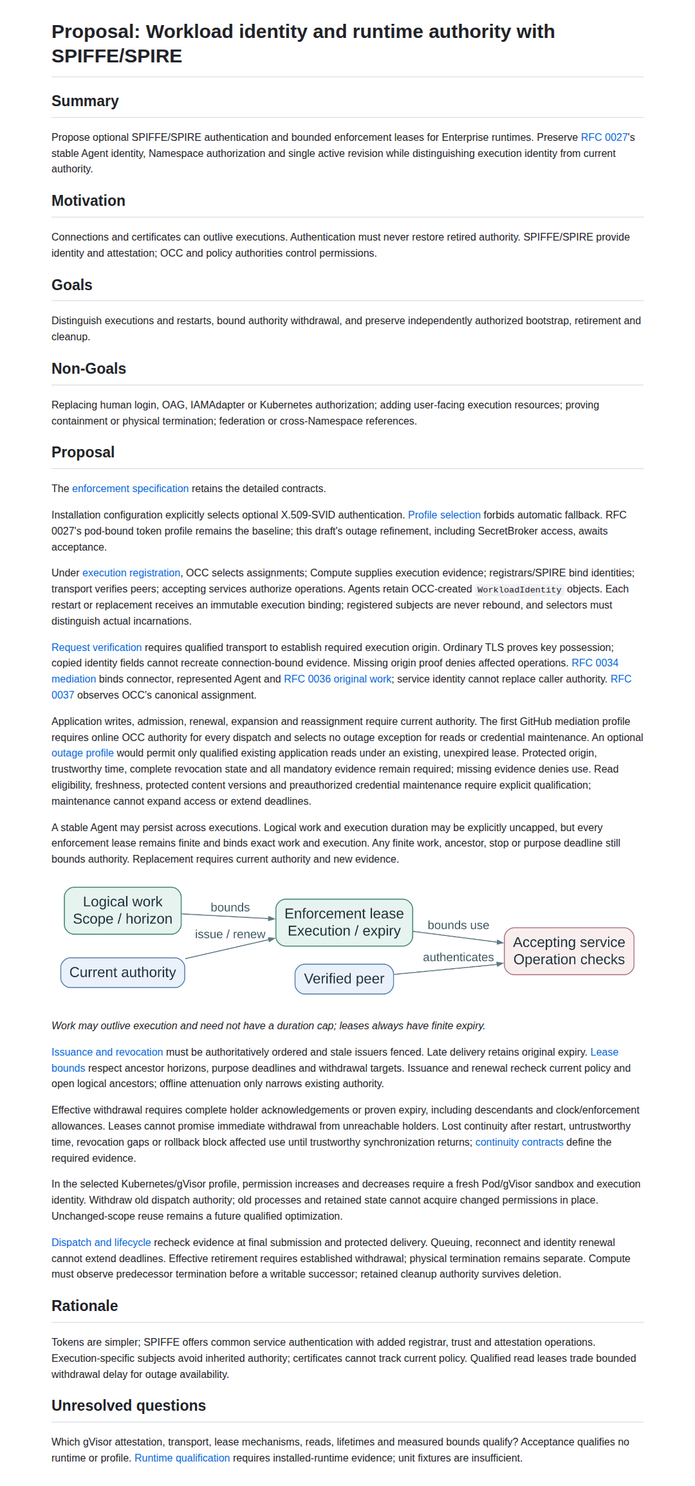
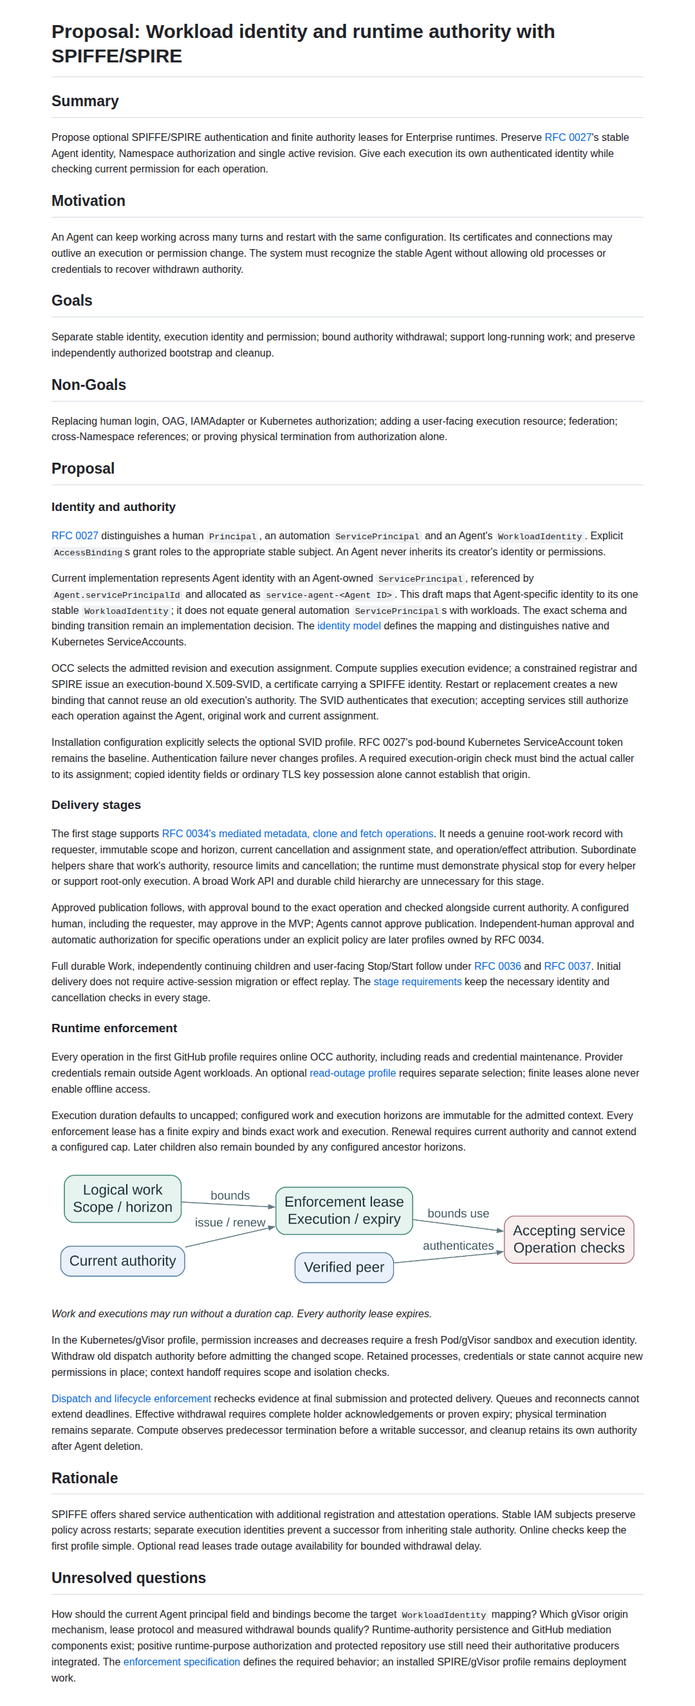
docs: clarify Agent identity and staged authority requirements

Changed region(s): [[0.0611, 0.0, 0.9167, 0.9974]]

diff --git a/rfcs/0035/enforcement-spec.md b/rfcs/0035/enforcement-spec.md
@@ -7,23 +7,47 @@ authorization, stable Agent identity, Namespace authorization and the single
 active revision. SPIFFE supplies identity documents; SPIRE supplies registration
 and attestation. Neither selects active revisions or grants OpenClaw permissions.
 
-## Authentication profiles
+## Identity model
 
-Each Agent retains its OCC-created `WorkloadIdentity`. An internal assignment
-binds it to an admitted revision and execution, without introducing a user-facing
-resource between AgentRevision and its workload. The Agent resource may persist
-indefinitely; its stable identity is distinct from an execution assignment, its
-SVID and each finite authority lease. Gateways, registrars and cleanup
-services use their own narrowly authorized identities; they cannot assume Agent
-identity.
+The target IAM subjects remain those of RFC 0027:
+
+| Identity or account | Meaning and authority |
+| --- | --- |
+| Human `Principal` | Existing OCC identity resolved from verified external identity; may approve publication when configured. |
+| Automation `ServicePrincipal` | Explicit Installation- or Namespace-scoped automation subject with its own bindings. |
+| Agent `WorkloadIdentity` | One stable OCC-created IAM subject per Agent, shared across revisions; bindings are confined to its Namespace or exact resources there. |
+| Execution assignment and SVID | One admitted incarnation of that Agent; the SVID authenticates its registered execution subject and grants no permission. |
+| Kubernetes `ServiceAccount` | Infrastructure identity backing the workload; its pod-bound token is the baseline runtime authentication credential. |
+| Native OCE `ServiceAccount` | Provider-agnostic account resource with an opaque credential reference; it is neither an IAM subject nor a Kubernetes ServiceAccount. |
+
+Current implementation persists the Agent's identity as an Agent-owned,
+Namespace-scoped `ServicePrincipal`. `Agent.servicePrincipalId`, allocated as
+`service-agent-<Agent ID>` and copied into revisions, references that record.
+This is the current representation of the design's stable `WorkloadIdentity`;
+it is not a separately implemented identity type. The proposed mapping preserves
+one stable workload subject per Agent without reclassifying general automation
+`ServicePrincipal`s. Whether implementation retains the field or introduces a
+distinct contract/persistence kind remains unresolved.
+
+Before selecting this profile, OCC must unambiguously resolve the Agent, stable
+subject, applicable bindings and current assignment within one Namespace.
+Any binding transition preserves exact subject and scope without adding
+permissions or transferring human/automation bindings. An execution SVID
+resolves through the assignment to that stable role-bearing subject.
+
+An assignment is internal, without a user-facing execution resource. Gateways,
+registrars and cleanup services use their own narrowly authorized identities;
+they cannot assume Agent identity. Agents cannot inherit human sessions, roles
+or provider credentials.
+
+## Authentication profiles
 
 Installation configuration selects authentication; workloads cannot choose trust
 roots. RFC 0027's pod-bound
 ServiceAccount-token profile remains the baseline. RFC 0035 proposes an optional
 X.509-SVID profile at explicitly selected OCC runtime boundaries. An X.509-SVID is
-a certificate carrying a SPIFFE identity. The dedicated Kubernetes ServiceAccount
-retains infrastructure authorization; IAM bindings remain attached to stable OCC
-identities. No human permissions transfer.
+a certificate carrying a SPIFFE identity. Kubernetes retains infrastructure
+authorization; IAM bindings remain attached to stable OCC subjects.
 
 Verification failure cannot switch profiles or admit another credential type.
 Migration requires an explicit rollout, current assignment bindings and withdrawal
@@ -34,6 +58,34 @@ This proposal does not replace human login, OAG admission, IAMAdapter policy or
 Kubernetes authorization. Cross-Installation federation and cross-Namespace
 references remain outside its scope. Identity does not establish containment,
 prevent all credential theft or prove physical termination from authorization.
+
+## Stage requirements
+
+Delivery starts with RFC 0034's mediated metadata, clone and fetch operations,
+then adds approved publication. Both stages require:
+
+- A genuine root-work record identifying the verified requester, service owner
+  and represented Agent, immutable admitted scope and finite-or-uncapped horizon,
+  cancellation state and exact current execution assignment.
+- Protected caller origin and online OCC authorization for each operation,
+  with operation/effect attribution and provider credentials outside workloads.
+- Subordinate helpers sharing the root work's execution context, authority,
+  aggregate resource limits, cancellation and expiry, without independent
+  admission or renewal. The runtime must demonstrate physical stop for every
+  helper; otherwise only root execution is supported.
+
+No broad Work API or child hierarchy is required. Unsupported independent
+children are denied; root-only work needs no child lineage. Cancellation blocks
+new dispatch; uncertain provider outcomes are recorded without blind replay.
+
+Publication additionally requires approval for the exact operation under RFC
+0034. The MVP permits a configured human, including the requester, to approve;
+Agents cannot approve publication. Independent-human approval and automatic
+authorization for specific operations under an explicit policy follow later.
+
+Full durable Work and independent children follow under RFC 0036, with the
+ancestry rules below; user-facing Stop/Start follows under RFC 0037.
+Active-session migration and effect replay are outside initial delivery.
 
 ## Execution registration
 
@@ -49,48 +101,41 @@ Assignments record Installation, Namespace, participant kind, stable identity,
 applicable revision, opaque assignment ID, execution generation, qualified
 compartment and registration reference. Restart or replacement creates a fresh
 execution binding even with unchanged Agent, ServiceAccount or Pod UID.
-Compartment selection must satisfy
-[RFC 0036's shared-state or isolation requirements](https://github.com/openclaw/rfcs/pull/70);
-identity labels cannot prove that isolation.
+Compartment selection must enforce the admitted scope's shared-state or
+isolation requirements. [RFC 0036](https://github.com/openclaw/rfcs/pull/70)
+extends these to independent children; identity labels cannot prove isolation.
 
-In the selected Kubernetes/gVisor profile, a permission increase or decrease
-requires a fresh Pod/gVisor sandbox, assignment and execution-bound SVID. Another
-container sharing the old Pod is insufficient. Withdraw old dispatch authority
-before admitting dispatch under the changed scope; do not change permissions in
-place while retaining old processes, memory, credentials or reusable state.
-Approved workspace or context handoff requires explicit scope and isolation
-checks; it cannot carry old authority or disallowed higher-authority data into
-the successor.
+Permission increases and decreases require a fresh Pod/gVisor sandbox,
+assignment and execution-bound SVID; another container in the old Pod is
+insufficient. Withdraw old dispatch authority before admitting the changed
+scope. Retained processes, memory, credentials and state cannot gain changed
+permissions in place. Workspace/context handoff requires scope and isolation
+checks and excludes old authority and disallowed higher-authority data.
 
-An Agent may handle multiple messages and turns under one unchanged authorized
-context; a message alone does not require a new Pod. Reusing a context across
-assignments remains a future optimization requiring proof of unchanged effective
-authority and data scope, currentness, work attribution and retained-state
-isolation. Comparing one permission label cannot qualify reuse.
+Multiple messages and turns may share one unchanged authorized context.
+Cross-assignment reuse remains a future optimization requiring unchanged
+effective authority and data scope, currentness, attribution and retained-state
+isolation; comparing permission labels is insufficient.
 
-The registered SPIFFE ID identifies one execution binding and must never be
-rebound to a successor. Attested selectors must distinguish that execution from
-other workloads and earlier incarnations. A fresh registration name with
-unchanged, insufficient selectors cannot do so. Renewal preserves the same
-binding. If an old certificate remains valid after replacement, it still resolves
-only to the old, retired assignment.
+Registered SPIFFE IDs never rebind to successors. Attested selectors must
+distinguish actual executions, including restarts; new names with insufficient
+selectors cannot do so. Renewal preserves the binding. Old certificates resolve
+only to their old assignments, even when still valid after replacement.
 
-[RFC 0037's observations](https://github.com/openclaw/rfcs/pull/71) reference OCC's
-canonical assignment; they cannot select another current execution. Lifecycle
-intent has a separate generation: stop need not change execution generation;
-replacement does.
+[RFC 0037](https://github.com/openclaw/rfcs/pull/71) observes OCC's canonical
+assignment. Lifecycle intent has a separate generation: stop need not change
+execution generation; replacement does.
 
 Record registration intent before dispatch. The registrar uses its own authority
 and protected Compute evidence, never the target's credential. Workloads cannot
 choose subjects, parents or selectors. A timed-out create requires exact
 reconciliation, not an unrelated registration.
 
-Pre-activation registration grants no Harness execution, Channel traffic or
-SecretBroker access. Independently authorized readiness paths preserve RFC 0027's
-activation order. Logical work and execution assignment are separate: work may
-survive a process, but selecting a replacement requires current authority and new
-execution-bound evidence. Neither recovered work nor its old lease authorizes the
-replacement.
+Pre-activation registration grants no Harness, Channel or SecretBroker access.
+Independently authorized readiness preserves RFC 0027's activation order.
+Where work continuation is later supported, replacement still requires current
+authority and fresh execution evidence; recovered work or an old lease cannot
+authorize it.
 
 ## Request verification
 
@@ -100,9 +145,9 @@ For each protected request:
 2. Resolve trusted registration and protected execution evidence to the exact
    assignment. Caller headers or serialized identity objects are insufficient.
 3. Check permitted purpose: serving, bounded drain of admitted work, permitted
-   control, or retained cleanup. Drain uses the original work ceiling and RFC
-   0037's finite deadline; it admits no new work. Purpose checks use current
-   authority or a qualified enforcement lease as specified below.
+   control, or retained cleanup. Drain uses the original work ceiling and a
+   finite deadline; it admits no new work. RFC 0037 defines the later Stop/Start
+   flow. Purpose checks use current authority or a qualified enforcement lease.
 4. Apply existing IAM, Restrictions, logical-work and effect constraints. The
    service owner, verified requester and executing workload remain distinct under
    RFC 0036. Authentication grants no permission.
@@ -124,40 +169,33 @@ here. Connector and gateway identities cannot replace caller authority.
 
 ## Outage operation
 
-The first GitHub mediation profile requires online OCC authority for every
-protected dispatch. It selects no outage exception for reads or credential maintenance.
-The exception below is an optional profile proposal, requiring separate explicit
-selection and qualification; finite leases alone do not enable it. Provider tokens
-may be cached only while every use passes the selected current-authority checks.
+The first GitHub profile requires online OCC authority for every operation,
+including reads and credential maintenance. Cached provider tokens do not bypass
+these checks. The following optional exception needs separate selection and
+qualification; finite leases alone do not enable it.
 
-Long-lived connections and streams recheck purpose before privileged dispatch or
-protected delivery. Application writes, message posting, new admission, renewal,
-expansion and new execution assignment require current authority. Only explicitly
-qualified application reads may continue during an authority outage under an
-existing unexpired enforcement lease. Eligibility follows operation semantics,
-not the HTTP method.
+Writes, message posting, admission, renewal, expansion and reassignment require
+current authority. Only qualified application reads may continue during an
+authority outage under an existing unexpired lease. Eligibility follows operation
+semantics, not HTTP methods.
 
-Protected origin, local revocation state, trustworthy time and every other
-mandatory check still apply; missing evidence denies the affected operation. OCC
-and each resource's selected IAM authority still own permission decisions; a
-connector cannot invent an outage profile. Read freshness and protected content
-versions require explicit qualification. A lease for a resource does not by
-itself authorize newly protected content at that resource.
+Protected origin, complete local revocation state, trustworthy time and all
+mandatory evidence remain required. OCC and the selected IAM authority retain
+permission decisions. Read freshness and protected content versions need explicit
+qualification; a resource lease does not authorize newly protected content.
 
-This is a proposed refinement of RFC 0027's per-operation current-authority and
-unavailable-state denial rules, including SecretBroker access. The accepted
-baseline is unchanged until this refinement is accepted.
+This refines RFC 0027's current-authority and unavailable-state denial rules,
+including SecretBroker access; its baseline stands until the refinement is accepted.
 
-Trusted credential maintenance may preserve existing read access only when
-expressly preauthorized under that same lease and qualified by RFC 0034. It cannot
-create work, expand access or extend an authority deadline. This does not permit
-application writes during an outage. Write interruption and restricted read
-freshness are deliberate initial limitations; broader outage profiles require a
+Credential maintenance may preserve read access only when preauthorized under
+the same lease and qualified by RFC 0034. It cannot create work, expand access,
+extend deadlines or permit application writes. Broader outage profiles require a
 separate proposal.
 
 ## Lease issuance and ordering
 
-OCC and the selected policy authorities issue leases for RFC 0036's admitted work.
+OCC and the selected policy authorities issue leases for admitted original work,
+using the root record in the initial stages and RFC 0036's hierarchy later.
 Each lease records:
 
 - Issuer and committed issuance version.
@@ -183,9 +221,12 @@ guarantees or remain unavailable for this profile.
 
 ## Lease bounds and ancestry
 
-Execution duration and logical-work horizons may be explicitly uncapped under
-the selected policy. An omitted or unknown policy is not evidence of uncapped
-authority. Each enforcement lease still has a finite absolute expiry.
+Execution duration defaults to uncapped under the selected initial policy.
+Admission records that choice or an explicitly configured finite horizon;
+missing or unverifiable policy state is not an uncapped choice. Logical work
+may also have a finite or uncapped horizon. The admitted work and execution
+horizons are immutable: renewal and reconnect cannot extend a configured cap.
+Each enforcement lease still has a finite absolute expiry.
 
 For issuance committed at `t`, expiry must satisfy:
 
@@ -248,9 +289,10 @@ fresh issuance.
 ## Dispatch and lifecycle
 
 Dispatch permits bind assignment/generation, original work and authority version,
-operation digest and evidence deadline. The accepting service rechecks mandatory
-evidence at final submission; reservation or queuing cannot postpone submission
-past the deadline. Offline allowance consumption requires a qualified
+operation digest and evidence deadline. Connections and streams recheck purpose
+before privileged dispatch or protected delivery. The accepting service rechecks
+mandatory evidence at final submission; reservation or queuing cannot postpone
+submission past the deadline. Offline allowance consumption requires qualified
 preallocation and durable accounting; exhaustion cannot authorize fresh credit.
 
 The effective dispatch deadline is no later than any applicable certificate,

diff --git a/rfcs/0035-workload-identity-and-runtime-authority.md b/rfcs/0035-workload-identity-and-runtime-authority.md
@@ -13,50 +13,58 @@ rfc_pr: https://github.com/openclaw/rfcs/pull/69
 
 ## Summary
 
-Propose optional SPIFFE/SPIRE authentication and bounded enforcement leases for Enterprise runtimes. Preserve [RFC 0027](0027-openclaw-enterprise.md#iam-and-authority)'s stable Agent identity, Namespace authorization and single active revision while distinguishing execution identity from current authority.
+Propose optional SPIFFE/SPIRE authentication and finite authority leases for Enterprise runtimes. Preserve [RFC 0027](0027-openclaw-enterprise.md#iam-and-authority)'s stable Agent identity, Namespace authorization and single active revision. Give each execution its own authenticated identity while checking current permission for each operation.
 
 ## Motivation
 
-Connections and certificates can outlive executions. Authentication must never restore retired authority. SPIFFE/SPIRE provide identity and attestation; OCC and policy authorities control permissions.
+An Agent can keep working across many turns and restart with the same configuration. Its certificates and connections may outlive an execution or permission change. The system must recognize the stable Agent without allowing old processes or credentials to recover withdrawn authority.
 
 ## Goals
 
-Distinguish executions and restarts, bound authority withdrawal, and preserve independently authorized bootstrap, retirement and cleanup.
+Separate stable identity, execution identity and permission; bound authority withdrawal; support long-running work; and preserve independently authorized bootstrap and cleanup.
 
 ## Non-Goals
 
-Replacing human login, OAG, IAMAdapter or Kubernetes authorization; adding user-facing execution resources; proving containment or physical termination; federation or cross-Namespace references.
+Replacing human login, OAG, IAMAdapter or Kubernetes authorization; adding a user-facing execution resource; federation; cross-Namespace references; or proving physical termination from authorization alone.
 
 ## Proposal
 
-The [enforcement specification](0035/enforcement-spec.md) retains the detailed contracts.
+### Identity and authority
 
-Installation configuration explicitly selects optional X.509-SVID authentication. [Profile selection](0035/enforcement-spec.md#authentication-profiles) forbids automatic fallback. RFC 0027's pod-bound token profile remains the baseline; this draft's outage refinement, including SecretBroker access, awaits acceptance.
+[RFC 0027](0027-openclaw-enterprise.md#iam-and-authority) distinguishes a human `Principal`, an automation `ServicePrincipal` and an Agent's `WorkloadIdentity`. Explicit `AccessBinding`s grant roles to the appropriate stable subject. An Agent never inherits its creator's identity or permissions.
 
-Under [execution registration](0035/enforcement-spec.md#execution-registration), OCC selects assignments; Compute supplies execution evidence; registrars/SPIRE bind identities; transport verifies peers; accepting services authorize operations. Agents retain OCC-created `WorkloadIdentity` objects. Each restart or replacement receives an immutable execution binding; registered subjects are never rebound, and selectors must distinguish actual incarnations.
+Current implementation represents Agent identity with an Agent-owned `ServicePrincipal`, referenced by `Agent.servicePrincipalId` and allocated as `service-agent-<Agent ID>`. This draft maps that Agent-specific identity to its one stable `WorkloadIdentity`; it does not equate general automation `ServicePrincipal`s with workloads. The exact schema and binding transition remain an implementation decision. The [identity model](0035/enforcement-spec.md#identity-model) defines the mapping and distinguishes native and Kubernetes ServiceAccounts.
 
-[Request verification](0035/enforcement-spec.md#request-verification) requires qualified transport to establish required execution origin. Ordinary TLS proves key possession; copied identity fields cannot recreate connection-bound evidence. Missing origin proof denies affected operations. [RFC 0034 mediation](https://github.com/openclaw/rfcs/pull/68) binds connector, represented Agent and [RFC 0036 original work](https://github.com/openclaw/rfcs/pull/70); service identity cannot replace caller authority. [RFC 0037](https://github.com/openclaw/rfcs/pull/71) observes OCC's canonical assignment.
+OCC selects the admitted revision and execution assignment. Compute supplies execution evidence; a constrained registrar and SPIRE issue an execution-bound X.509-SVID, a certificate carrying a SPIFFE identity. Restart or replacement creates a new binding that cannot reuse an old execution's authority. The SVID authenticates that execution; accepting services still authorize each operation against the Agent, original work and current assignment.
 
-Application writes, admission, renewal, expansion and reassignment require current authority. The first GitHub mediation profile requires online OCC authority for every dispatch and selects no outage exception for reads or credential maintenance. An optional [outage profile](0035/enforcement-spec.md#outage-operation) would permit only qualified existing application reads under an existing, unexpired lease. Protected origin, trustworthy time, complete revocation state and all mandatory evidence remain required; missing evidence denies use. Read eligibility, freshness, protected content versions and preauthorized credential maintenance require explicit qualification; maintenance cannot expand access or extend deadlines.
+Installation configuration explicitly selects the optional SVID profile. RFC 0027's pod-bound Kubernetes ServiceAccount token remains the baseline. Authentication failure never changes profiles. A required execution-origin check must bind the actual caller to its assignment; copied identity fields or ordinary TLS key possession alone cannot establish that origin.
 
-A stable Agent may persist across executions. Logical work and execution duration may be explicitly uncapped, but every enforcement lease remains finite and binds exact work and execution. Any finite work, ancestor, stop or purpose deadline still bounds authority. Replacement requires current authority and new evidence.
+### Delivery stages
+
+The first stage supports [RFC 0034's mediated metadata, clone and fetch operations](https://github.com/openclaw/rfcs/pull/68). It needs a genuine root-work record with requester, immutable scope and horizon, current cancellation and assignment state, and operation/effect attribution. Subordinate helpers share that work's authority, resource limits and cancellation; the runtime must demonstrate physical stop for every helper or support root-only execution. A broad Work API and durable child hierarchy are unnecessary for this stage.
+
+Approved publication follows, with approval bound to the exact operation and checked alongside current authority. A configured human, including the requester, may approve in the MVP; Agents cannot approve publication. Independent-human approval and automatic authorization for specific operations under an explicit policy are later profiles owned by RFC 0034.
+
+Full durable Work, independently continuing children and user-facing Stop/Start follow under [RFC 0036](https://github.com/openclaw/rfcs/pull/70) and [RFC 0037](https://github.com/openclaw/rfcs/pull/71). Initial delivery does not require active-session migration or effect replay. The [stage requirements](0035/enforcement-spec.md#stage-requirements) keep the necessary identity and cancellation checks in every stage.
+
+### Runtime enforcement
+
+Every operation in the first GitHub profile requires online OCC authority, including reads and credential maintenance. Provider credentials remain outside Agent workloads. An optional [read-outage profile](0035/enforcement-spec.md#outage-operation) requires separate selection; finite leases alone never enable offline access.
+
+Execution duration defaults to uncapped; configured work and execution horizons are immutable for the admitted context. Every enforcement lease has a finite expiry and binds exact work and execution. Renewal requires current authority and cannot extend a configured cap. Later children also remain bounded by any configured ancestor horizons.
 
 ![Authority lifetimes](0035/authority-lifetimes.png)
 
-*Work may outlive execution and need not have a duration cap; leases always have finite expiry.*
+*Work and executions may run without a duration cap. Every authority lease expires.*
 
-[Issuance and revocation](0035/enforcement-spec.md#lease-issuance-and-ordering) must be authoritatively ordered and stale issuers fenced. Late delivery retains original expiry. [Lease bounds](0035/enforcement-spec.md#lease-bounds-and-ancestry) respect ancestor horizons, purpose deadlines and withdrawal targets. Issuance and renewal recheck current policy and open logical ancestors; offline attenuation only narrows existing authority.
+In the Kubernetes/gVisor profile, permission increases and decreases require a fresh Pod/gVisor sandbox and execution identity. Withdraw old dispatch authority before admitting the changed scope. Retained processes, credentials or state cannot acquire new permissions in place; context handoff requires scope and isolation checks.
 
-Effective withdrawal requires complete holder acknowledgements or proven expiry, including descendants and clock/enforcement allowances. Leases cannot promise immediate withdrawal from unreachable holders. Lost continuity after restart, untrustworthy time, revocation gaps or rollback block affected use until trustworthy synchronization returns; [continuity contracts](0035/enforcement-spec.md#revocation-and-continuity) define the required evidence.
-
-In the selected Kubernetes/gVisor profile, permission increases and decreases require a fresh Pod/gVisor sandbox and execution identity. Withdraw old dispatch authority; old processes and retained state cannot acquire changed permissions in place. Unchanged-scope reuse remains a future qualified optimization.
-
-[Dispatch and lifecycle](0035/enforcement-spec.md#dispatch-and-lifecycle) recheck evidence at final submission and protected delivery. Queuing, reconnect and identity renewal cannot extend deadlines. Effective retirement requires established withdrawal; physical termination remains separate. Compute must observe predecessor termination before a writable successor; retained cleanup authority survives deletion.
+[Dispatch and lifecycle enforcement](0035/enforcement-spec.md#dispatch-and-lifecycle) rechecks evidence at final submission and protected delivery. Queues and reconnects cannot extend deadlines. Effective withdrawal requires complete holder acknowledgements or proven expiry; physical termination remains separate. Compute observes predecessor termination before a writable successor, and cleanup retains its own authority after Agent deletion.
 
 ## Rationale
 
-Tokens are simpler; SPIFFE offers common service authentication with added registrar, trust and attestation operations. Execution-specific subjects avoid inherited authority; certificates cannot track current policy. Qualified read leases trade bounded withdrawal delay for outage availability.
+SPIFFE offers shared service authentication with additional registration and attestation operations. Stable IAM subjects preserve policy across restarts; separate execution identities prevent a successor from inheriting stale authority. Online checks keep the first profile simple. Optional read leases trade outage availability for bounded withdrawal delay.
 
 ## Unresolved questions
 
-Which gVisor attestation, transport, lease mechanisms, reads, lifetimes and measured bounds qualify? Acceptance qualifies no runtime or profile. [Runtime qualification](0035/enforcement-spec.md#runtime-qualification) requires installed-runtime evidence; unit fixtures are insufficient.
+How should the current Agent principal field and bindings become the target `WorkloadIdentity` mapping? Which gVisor origin mechanism, lease protocol and measured withdrawal bounds qualify? Runtime-authority persistence and GitHub mediation components exist; positive runtime-purpose authorization and protected repository use still need their authoritative producers integrated. The [enforcement specification](0035/enforcement-spec.md) defines the required behavior; an installed SPIRE/gVisor profile remains deployment work.
